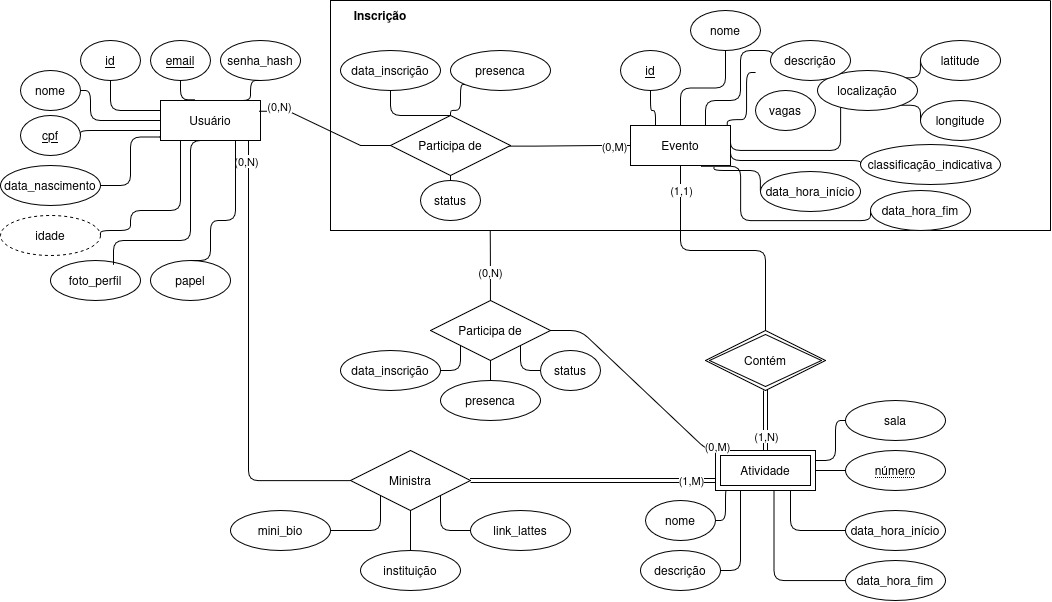
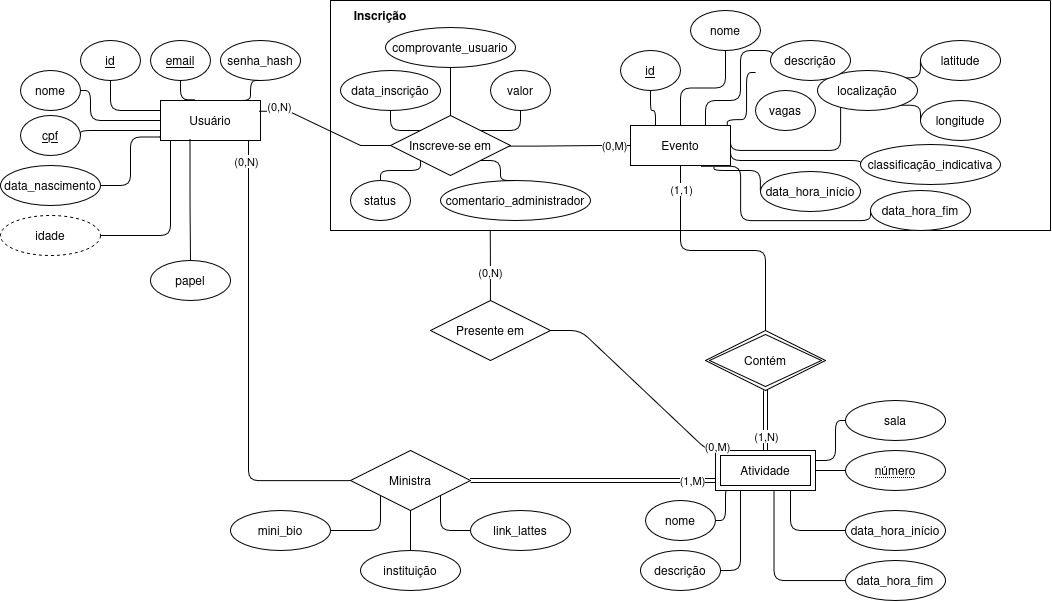
Sincronizando docs com o DDL e atualizando regras de negócio
Adicionando informações das rotas e o que deve existir nas telas da
aplicação nas rotas de negócio

Igualando diagrama eer e relacional à declaração das tabelas

Mudando status_inscricao recusada para cancelada

diff --git a/docs/regras-de-negocio.md b/docs/regras-de-negocio.md
@@ -3,30 +3,35 @@
 ## Usuário
 
 - O cpf e email são únicos para cada usuário
+- Usuários conseguem ver em quais eventos eles estão inscritos em `/user/events`, essa listagem deve mostrar uma prévia das inscrições pendentes também. Uma página de detalhes em `/user/events/{id}/attendances` deve mostrar quais atividades o usuário esteve presente.
+- Para acessar o sistema o usuário deve estar autenticado, após seguir o fluxo de login e senha em `/login`
 
 ## Eventos
 
 - Um evento precisa ter pelo menos uma atividade 
-- Usuários só podem se inscrever no evento se a idade deles estiver adequada à classificação indicativa 
+- A lista de todos os eventos é mostrada na página `/events`, os eventos devem ser mostrados como cards e um evento sem vagas deve aparecer desabilitado com um tooltip informativo (mas usuários administradores ainda conseguem ver os detalhes)
+- Em `/events`, um usuário administrador pode interagir com um botão 'Criar evento' que abre um dialog para adicionar um novo evento
+- Adminstradores conseguem ver detalhes de um evento específico com o valor arrecadado pelas inscrições confirmadas, quanto vai ser arrecadado com as inscrições pendentes e quanto foi deixado de arrecadar nas inscrições canceladas, esse detalhamento deve ser mostrado de forma tabular na página `/events/{id}`
+- Administradores conseguem ver quais inscrições estão pendentes em `/events/{id}/registrations`. Em `/events/{id}/registrations/{id}` o administrador pode fazer comentários, aceitar ou recusar a inscrição.
 
 ### Inscrição 
 
-- A inscrição de um usuário inicia como pendente e deve ser confirmada por ele em um segundo momento
-- Um usuário pode cancelar uma inscrição pendente ou confirmada
-- Cancelar uma inscrição deve cancelar a inscrição do usuário em todas as atividades do evento
+- Usuários podem se inscrever por um botão na página `/events/{id}`. Que abre um dialog para informar os dados de inscrição
+- A inscrição de um usuário inicia como pendente e deve ser confirmada por um administrador. O usuário informa o valor e anexa um comprovante, o administrador também pode adicionar um comentário após avaliar 
+- O usuário pode editar uma inscrição pendente em `/user/registrations/{id}`
+- Usuários só podem se inscrever no evento se a idade deles estiver adequada à classificação indicativa 
+- O usuário que solicitou a inscrição pode cancelar uma inscrição pendente ou confirmada, é necessário pedir por confirmação do usuário antes de concluir o cancelamento. Essa opção está disponível em `/user/registrations/{id}`
 - Só podem haver inscrições até o número de vagas do evento ser atingido
-- Um usuário admin é responsável por adicionar a presença durante ou após a atividade 
 
 ### Atividades
 
-- Uma atividade deve possuir pelo menos um ministrante
+- Criar uma atividade deve ser feito por meio de um botão que abre um dialog na página `/events/{id}/activities`
+- A listagem de atividades de um evento fica em `/events/{id}/activities/{id}`
+- Uma atividade deve possuir pelo menos um ministrante. Os detalhes de uma atividade ficam em `/events/{id}/activities/{id}` e nessa página um administrador pode editar ministrantes e outros detalhes da atividade
 - O horário da atividade deve estar contido no horário do evento
 - Os participantes de uma atividade devem estar inscritos no evento a que a atividade pertence
 
-#### Inscrição Atividade 
+#### Presença atividade
 
-- O usuário só pode se inscrever em atividades após confirmar a inscrição no evento
-- A inscrição de um usuário inicia como pendente e deve ser confirmada por ele em um segundo momento
-- Um usuário pode cancelar uma inscrição pendente ou confirmada
-- Só podem haver inscrições até o número de vagas da atividade ser atingido
-- Um usuário admin é responsável por adicionar a presença durante ou após a atividade 
+- Um usuário administrador é responsável por adicionar a presença durante ou após a atividade. Em `/events/{id}/activities/{id}`. A lista dos usuários que podem receber a presença só é mostrada ao administrador
+

diff --git a/README.md b/README.md
@@ -14,7 +14,7 @@ funcionais da aplicação.
  
 ![./docs/diagrama-eer.jpg](./docs/diagrama-eer.jpg)
 
-O relacionamento entre as entidades foi modelado utilizando a notação EER de ... Pelo draw.io.
+O relacionamento entre as entidades foi modelado utilizando a notação EER de Elmasri & Navathe Pelo draw.io.
 
 ### Modelo Relacional
 
@@ -26,7 +26,6 @@ erDiagram
     USUARIO {
         int id PK
         string nome
-        blob foto_perfil
         string cpf
         string email
         string papel
@@ -51,26 +50,26 @@ erDiagram
         int numero PK
         string nome
         string descricao
+        string sala
+        int vagas
         datetime data_hora_inicio
         datetime data_hora_fim
-        string sala
     }
 
     INSCRICAO_EVENTO {
         int id_usuario PK, FK
         int id_evento PK, FK
         datetime data_inscricao
-        boolean presenca
         string status
+        string comentario_administrador
+        string comprovante_usuario BYTEA
+        float valor
     }
 
-    INSCRICAO_ATIVIDADE {
+    PRESENCA_ATIVIDADE {
         int id_usuario PK, FK
         int id_evento PK, FK
         int numero_atividade PK, FK
-        datetime data_inscricao
-        boolean presenca
-        string status
     }
 
     MINISTRANTE {
@@ -85,8 +84,8 @@ erDiagram
     USUARIO ||--o{ INSCRICAO_EVENTO : "faz"
     EVENTO ||--o{ INSCRICAO_EVENTO : "recebe"
     EVENTO ||--|{ ATIVIDADE : "contem"
-    INSCRICAO_EVENTO ||--o{ INSCRICAO_ATIVIDADE : "participa de"
-    ATIVIDADE ||--o{ INSCRICAO_ATIVIDADE : "tem inscritos"
+    PRESENCA_ATIVIDADE }o--|| INSCRICAO_EVENTO : "vinculada a"
+    ATIVIDADE ||--o{ PRESENCA_ATIVIDADE : "possui"
     USUARIO ||--o{ MINISTRANTE : "ministra"
     ATIVIDADE ||--|{ MINISTRANTE : "Ministrada por"
 ```
